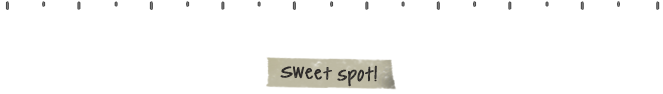
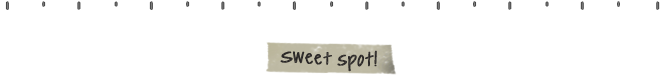
more tweak age

diff --git a/assets/css/app.css b/assets/css/app.css
@@ -596,7 +596,7 @@ left: 15px;
 position: absolute;
 z-index: -1;
 left: 15px;
-width: 74%;
+width: 85%;
 }
 
 .dan-nodan {
